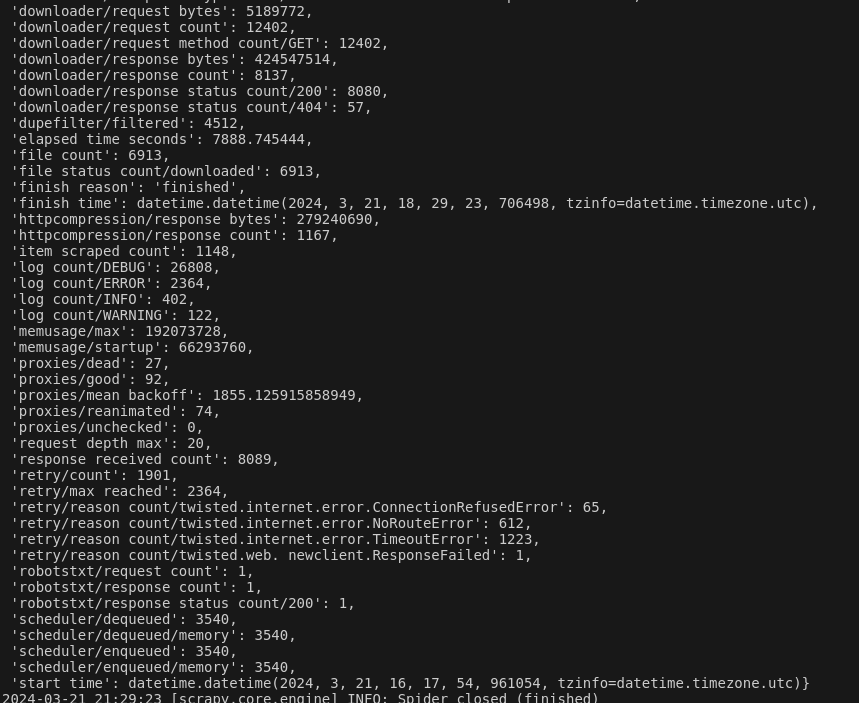
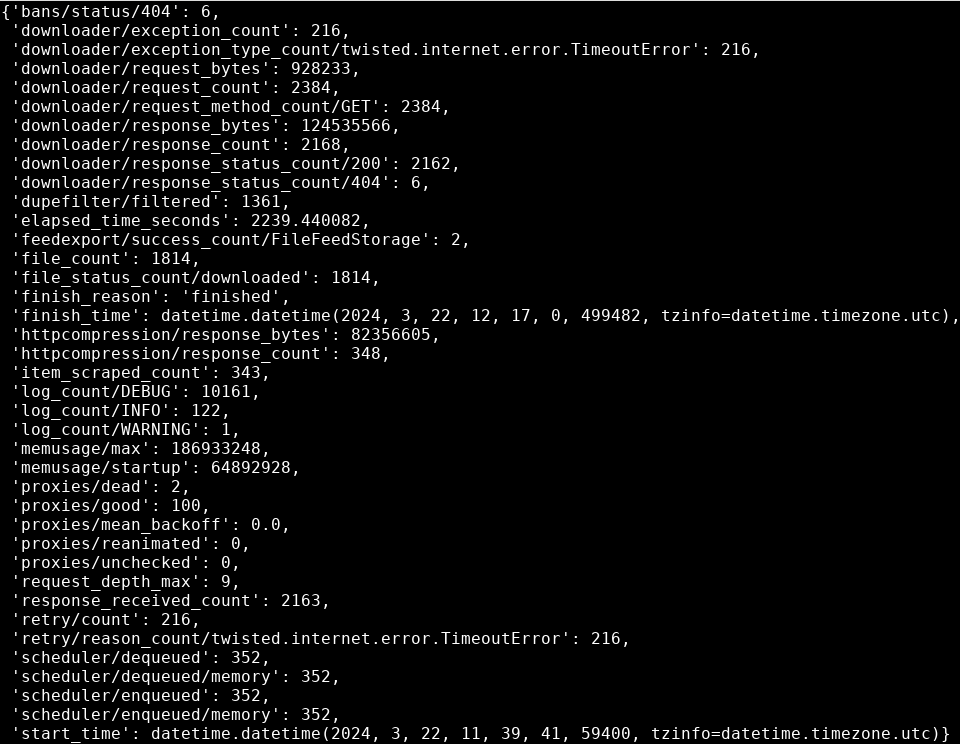
README.md

diff --git a/06.Lecture/README.md b/06.Lecture/README.md
@@ -1,0 +1,17 @@
+# Урок 6. Scrapy. 
+
+## Парсинг фото и файлов
+
+С сайта zebrs.com скачаны информация и фотографии смарт-часов.
+
+Со страниц с описанием часов выдернуто название, цена и по несколько фоток каждого наименования часов.
+
+Вся информация сохранена в файле [watches.md](watches.md), который имеет структуру:
+
+- Название часов
+- Цена
+- Folder - ссылка на папку в данном репозитории, хранящую фотографии часов
+
+**Финальный вывод статистики scrapy crawler**
+
+<img src=finish.png>
